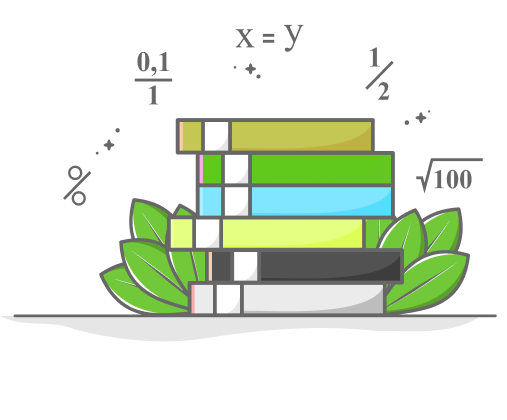
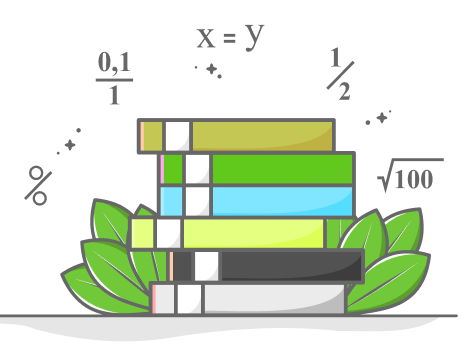
added mobile reponsive

diff --git a/templates/book-single-page.html b/templates/book-single-page.html
@@ -6,16 +6,16 @@
 
     <div class="container" style="padding-top:60px; padding-bottom:20px;">
     <div class="row">
-        <div class="col-4">
+        <div class="col-md-4 col-sm-12">
         <img src="/media/{{book.image}}" style="height: 529px;"/>
         </div>
-        <div class="col-5">
+        <div class="col-md-5">
             <h3 class="book-title-single">{{book.title}} </h3>
             <h4 class="book-price-single mt-3">$ {{book.price}}</h4>
-            <div class="row"><div class="col-2 g-0">
+            <div class="row"><div class="col-3 col-md-2 col-sm-6 g-0">
                 <span class="book-default-single align-items-left"> Author:</span>
             </div>
-                <div class="col g-0"> <span class="book-author">
+                <div class="col-7 col-md-6 g-0"> <span class="book-author">
                 {{book.author}} </span>
                 </div>
             </div>
@@ -42,24 +42,24 @@ Devdas is a young man from wealthy bengali family in India. In the early 1900s. 
             </div>
               </div>
 
-                <div class="row g-0 mt-3"><div class="col-2 g-0">
+                <div class="row g-0 mt-3"><div class="col-3 col-md-2 col-sm-6 g-0">
                 <span class="book-default-single align-items-left">Category:</span>
             </div>
-                <div class="col "> <span class="book-author">
+                <div class="col-6 col-sm-6 g-0"> <span class="book-author">
                 {{book.category}} </span>
                 </div>
             </div>
            <div class="row g-0 mt-3">
-               <div class="col-2 g-0"> <span class="book-default-single align-items-left"> Share:</span>
+               <div class="col-2 col-md-2 g-0"> <span class="book-default-single align-items-left"> Share:</span>
                </div>
-               <div clas="col g-0">
+               <div class="col-6 col-md-4 g-0">
                    <i class="fa-brands fa-facebook fa-custom"></i> <i class="fa-brands fa-twitter fa-custom"></i>  <i class="fa-brands fa-instagram fa-custom"></i>  <i class="fa-brands fa-pinterest fa-custom"></i>  <i class="fa-brands fa-whatsapp fa-custom"></i>
                </div>
            </div>
 
 
         </div>
-        <div class="col-3" style="margin-top: 83px;">
+        <div class="col-md-3 col-sm-12" style="margin-top: 83px;">
             <p class="text-danger" style="font-size:14px;font-weight:600px;"><b>Feel free to chat with us</b></p>
             <div class="sidebar-style"><i class="fa-solid fa-box"></i> 24 hour Delivery</div>
             <div class="sidebar-style"> <i class="fa-solid fa-truck-clock"></i> Free Shipping</div>
@@ -99,24 +99,34 @@ Devdas is a young man from wealthy bengali family in India. In the early 1900s. 
     <div class="product container">
     <div class="row">
         {%for related_book in related_books%}
-         <div class="product-box col-md-2 col-sm-6">
-              <a class="text-decoration-none" href="/book/{{related_book.slug}}">
-        <img class="product-img" src="{{related_book.image.url}}"/>
-            <h3 class="book-title">{{related_book.title}} </h3>
-            <p class="book-price"><b>{{related_book.price}}</b></p>
+         <div class="product-box col-6 col-md-2">
+             <a class="text-decoration-none" href="/book/{{related_book.slug}}">
+             <img class="product-img" src="{{related_book.image.url}}"/>
+             <h3 class="book-title">{{related_book.title}} </h3>
+             <p class="book-price"><b>{{related_book.price}}</b></p>
 
-            <button class="btn btn-custom"> Buy Now </button>
+             <button class="btn btn-custom"> Buy Now </button>
 
 
 
-              </a></div></div></div>
+              </a>
+
+         </div>
+
+
+
 
 
 
  {%endfor%}
+        </div>
 
 
 
-</div></div></div>
+</div></div>
+
+
+    </div>
+</section>
 
 {%endblock content%}

diff --git a/templates/index.html b/templates/index.html
@@ -9,8 +9,8 @@
 </div>
 <div clsss="hero">
 <div class="container">
-<div class="row" style="padding-bottom:40px">
-<div class="col-6 p-0">
+<div class="row " style="padding-bottom:124px">
+<div class="col-md-6 p-0">
     <h1 class="boihut display-4">Buy Your <span class="boihut-favorite">Favorite</span> Books</h1>
 
   <p class="boihut hero-text">Buy your favorite books from our huge list of collection. You will get your product delivered to your doorsteps in 24 hours. </p>
@@ -20,8 +20,8 @@
   </p>
 </div>
 
-<div class="col-4">
-    <img src="{%static 'images/hero.png'%}"/>
+<div class="col-12 col-md-4">
+    <img class="img-fluid" src="{%static 'images/hero.png'%}"/>
 
 </div>
 </div></div>
@@ -34,11 +34,11 @@
 
 <div class="container ms-auto">
     <div class="row" style="margin-top:-90px;background:#FFFFFF;">
-        <h3 class="text-front-page text-center pt-3">Books </h3>
+        <h3 class="text-front-page text-center pt-3 ">Books </h3>
     {%for book in books%}
 
 
-         <div class="product-box col-md-2 col-sm-6">
+         <div class="product-box col-6 col-md-2 mb-sm-4">
              <a class="text-decoration-none" href="book/{{book.slug}}">
            <img class="product-img" src="{{book.image.url}}"/>
             <h3 class="book-title">{{book.title}} </h3>

diff --git a/templates/dashboard-menu.html b/templates/dashboard-menu.html
@@ -1,7 +1,7 @@
 {%load static%}
 
 
-<div class="col-2" style="background:url({%static 'images/slidebar.png'%});height:100vh;"> <i class="fa-solid fa-user"></i>
+<div class="col-12 col-md-2 " style="background:url({%static 'images/slidebar.png'%});height:100vh;"> <i class="fa-solid fa-user"></i>
 
     <div class="list-group" id="MyTab" role="tablist">
       <a class="list-group-item list-group-item-action" data-toggle="list" href="/dashboard/"  ><i class="fa-solid fa-house"></i> Dashboard </a>

diff --git a/templates/cart.html b/templates/cart.html
@@ -27,7 +27,7 @@
 </div>
 
 <div class="container "><div class="row" >
-<div class="col-5 card boihut-checkout-card" align="right">
+<div class="col-md-5 col-sm-12 card boihut-checkout-card" align="right">
     <h4 align="left" class="boihut-h4-checkout">Subtotal: {{total}}</h4>
     <h4 align="left" class="boihut-h4-checkout">Grandtotal: {{total}}</h4>
     <a href="/"><button class="btn boihut-checkout-continue">

diff --git a/static/css/styles.css b/static/css/styles.css
@@ -169,15 +169,7 @@ margin-top:6px;
     margin:0 auto;
 }
 
-.row .col-md-2 {
-    display: inline-block;
-    vertical-align: middle;
-    float: none;
-    margin-left: 15px;
-    margin-right: 15px;
-    margin-bottom: 30px;
-    margin-top: 30px;
-}
+
 .product-img{
 
 width:141px;
@@ -845,4 +837,9 @@ line-height: 33px;
 
 
 color: #767676;
+}
+
+.img-fluid {
+    max-width: 110%;
+    height: auto;
 }
